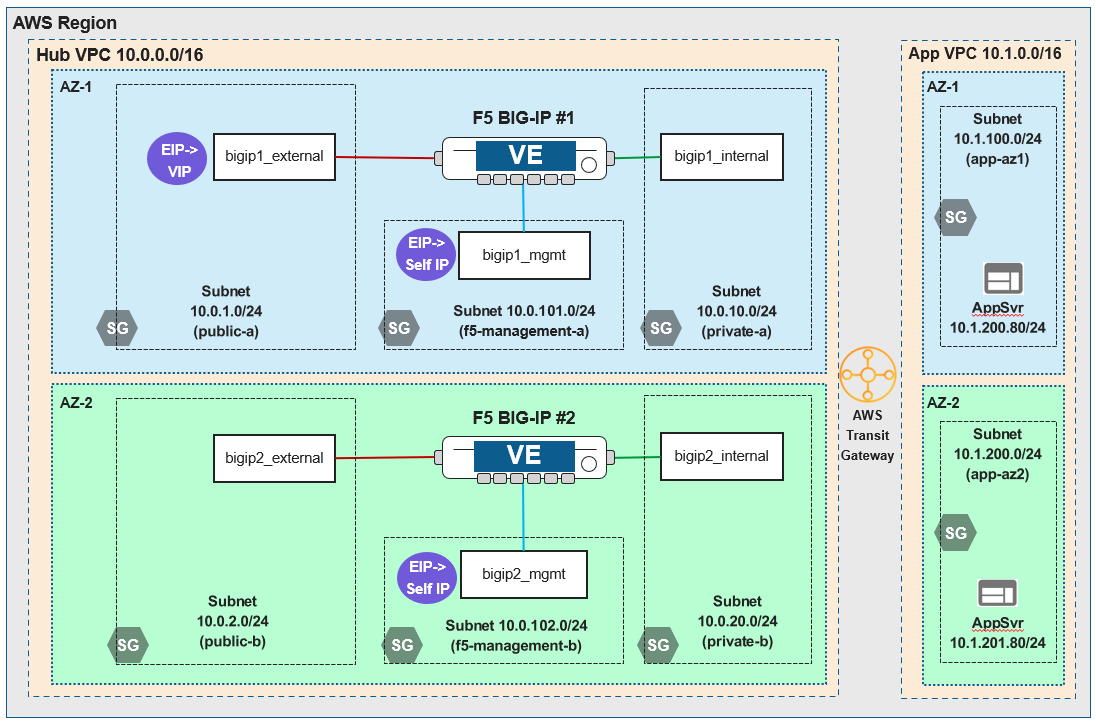
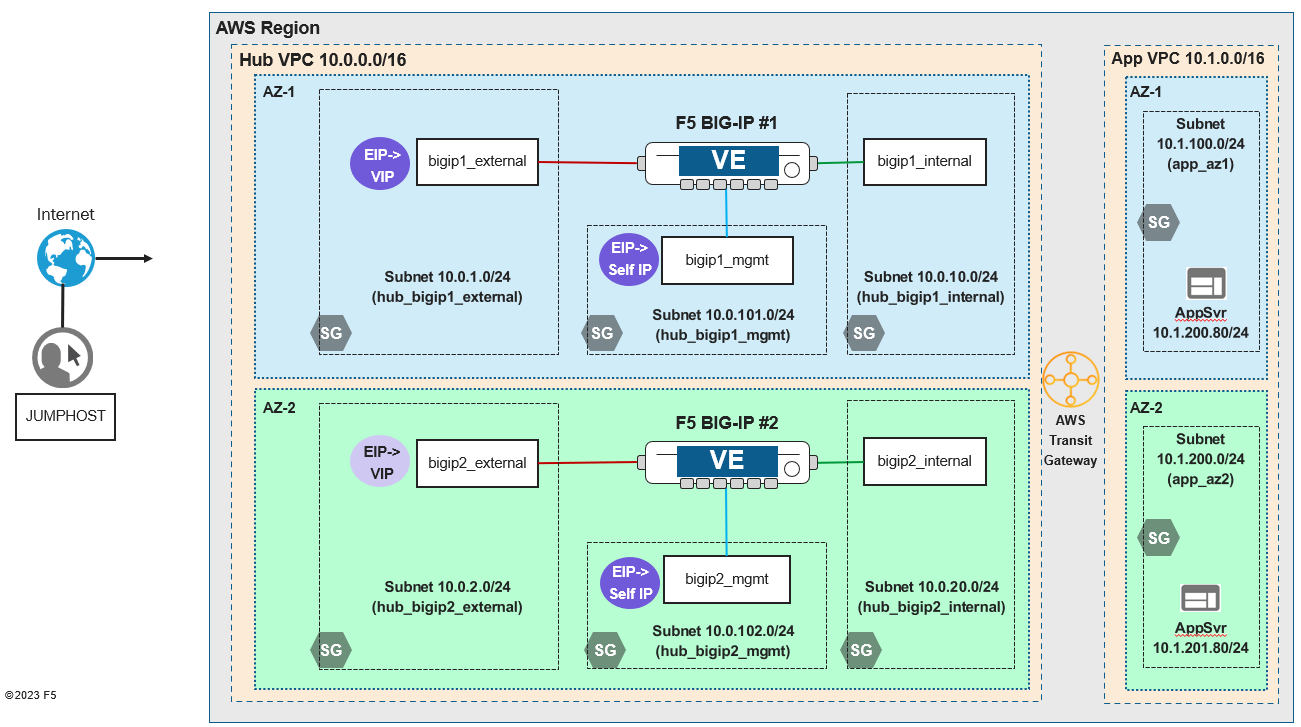
added new network diagrams

diff --git a/docs/class13/module2/lab2.rst b/docs/class13/module2/lab2.rst
@@ -3,7 +3,7 @@ Lab Scenario
 
 .. _scenario:
 
-Two AWS VPCs are connected to an AWS Transit Gateway, which routes traffic between the VPCs. The **app** VPC contains two application server instances (each in a different availability zone). The **hub** VPC contains two BIG-IP VE instances (each in a different availability zone). Users will connect to a Virtual Server a BIG-IP to access the application.
+Two AWS VPCs are connected to an AWS Transit Gateway, which routes traffic between the VPCs. The **app** VPC contains two application server instances (each in a different availability zone). The **hub** VPC contains two BIG-IP VE instances (each in a different availability zone). Users will connect to a Virtual Server on a BIG-IP to access the application.
 
 
 Target Infrastructure End-State

diff --git a/docs/class13/module4/lab1.rst b/docs/class13/module4/lab1.rst
@@ -1,3 +1,20 @@
+Lab Scenario
+================================================================================
+
+.. _scenario:
+
+Two AWS VPCs are connected to an AWS Transit Gateway, which routes traffic between the VPCs. The **app** VPC contains two application server instances (each in a different availability zone). The **hub** VPC contains two BIG-IP VE instances (each in a different availability zone). 
+
+You will configure HA failover via the F5 Cloud Failover Extension (pre-installed as part of the initial onboarding) and test a failover between BIG-IP instances.
+
+
+**Network Diagram**
+
+.. image:: ./images/aws-lab-diagram-ha-cfe.png
+   :align: left
+
+
+
 Check status of BIG-IPs
 ================================================================================
 2 VE instances

diff --git a/docs/class13/module5/lab1.rst b/docs/class13/module5/lab1.rst
@@ -1,3 +1,22 @@
+Lab Scenario
+================================================================================
+
+.. _scenario:
+
+Two AWS VPCs are connected to an AWS Transit Gateway, which routes traffic between the VPCs. The **app** VPC contains two application server instances (each in a different availability zone). The **hub** VPC contains two BIG-IP VE instances (each in a different availability zone). 
+
+You will configure HA failover via an AWS Network Load Balancer and test a failover between BIG-IP instances.
+
+
+**Network Diagram**
+
+.. image:: ./images/aws-lab-diagram-ha-lb.png
+   :align: left
+
+
+
+
+
 
 Active-Active BIG-IP VE Instances
 ================================================================================
